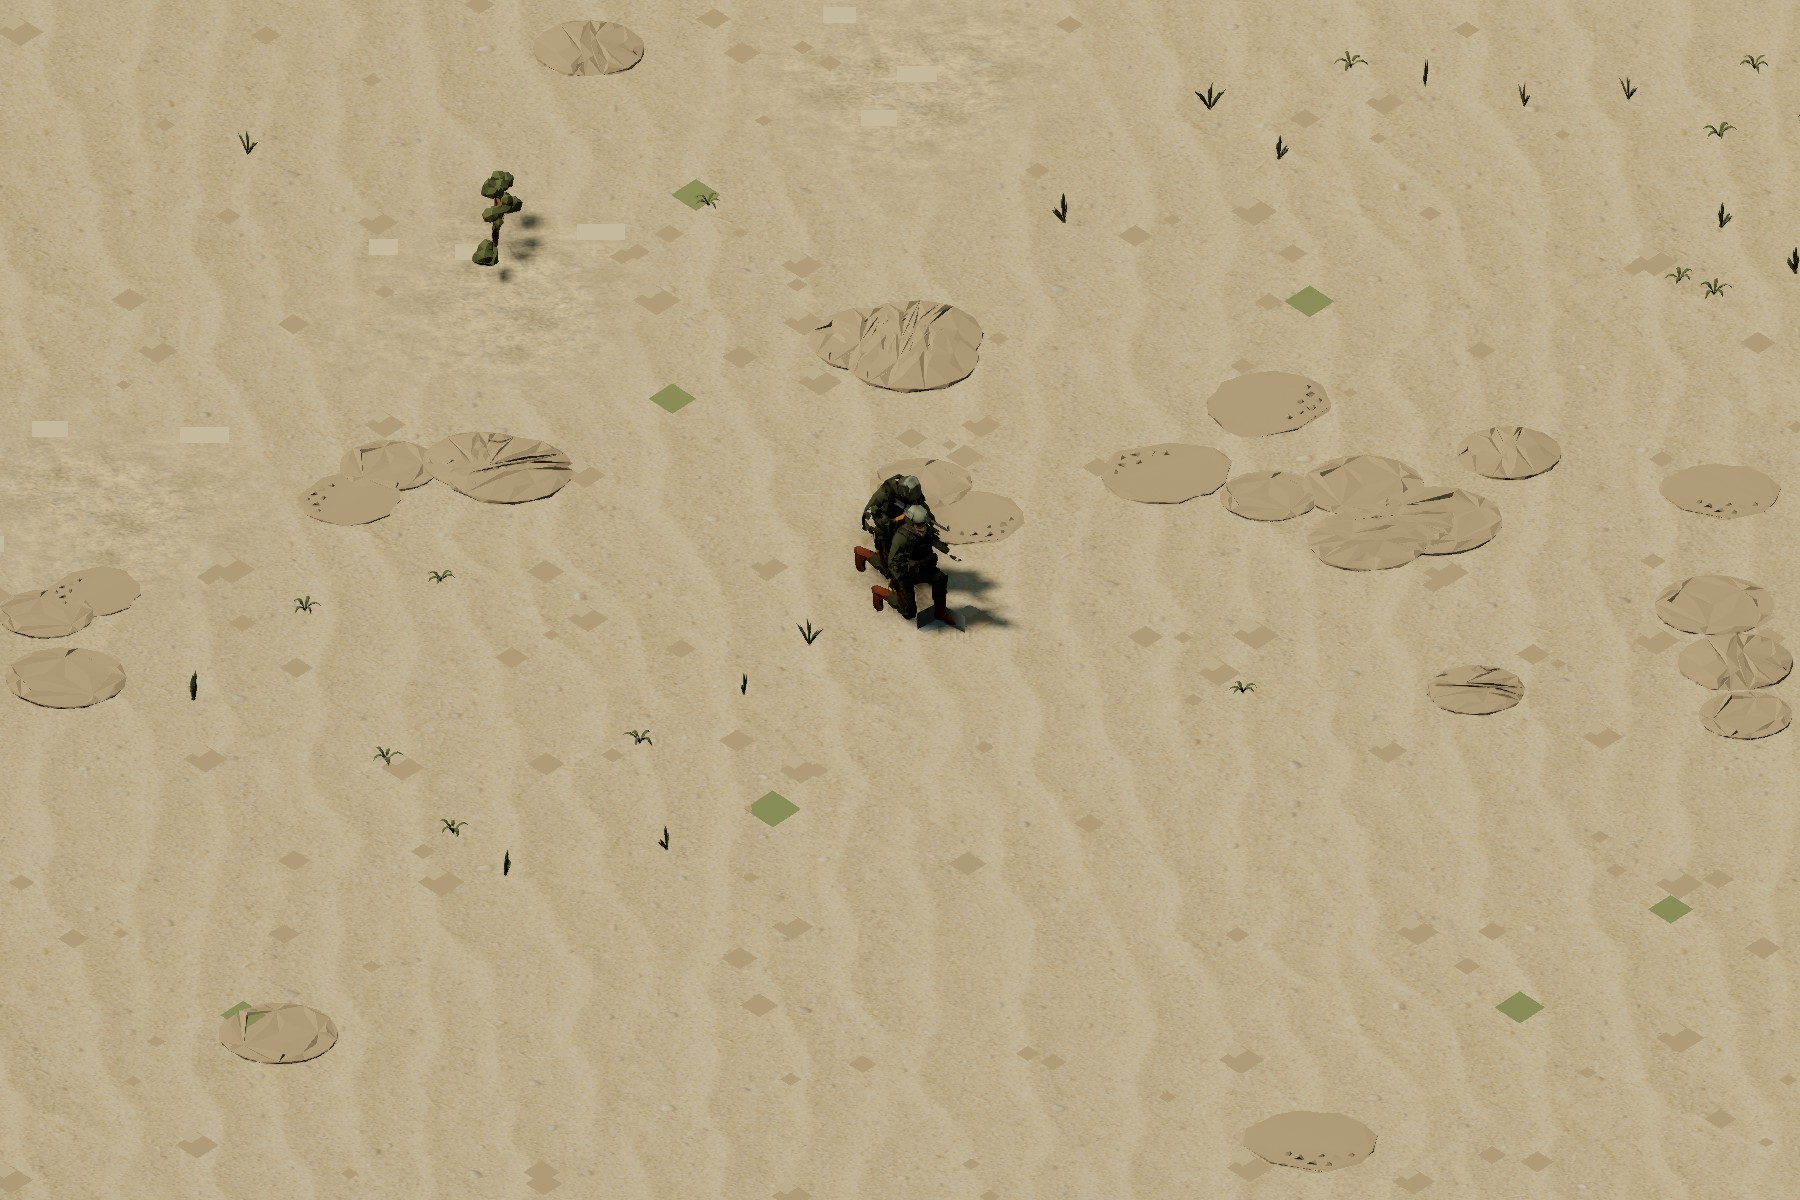
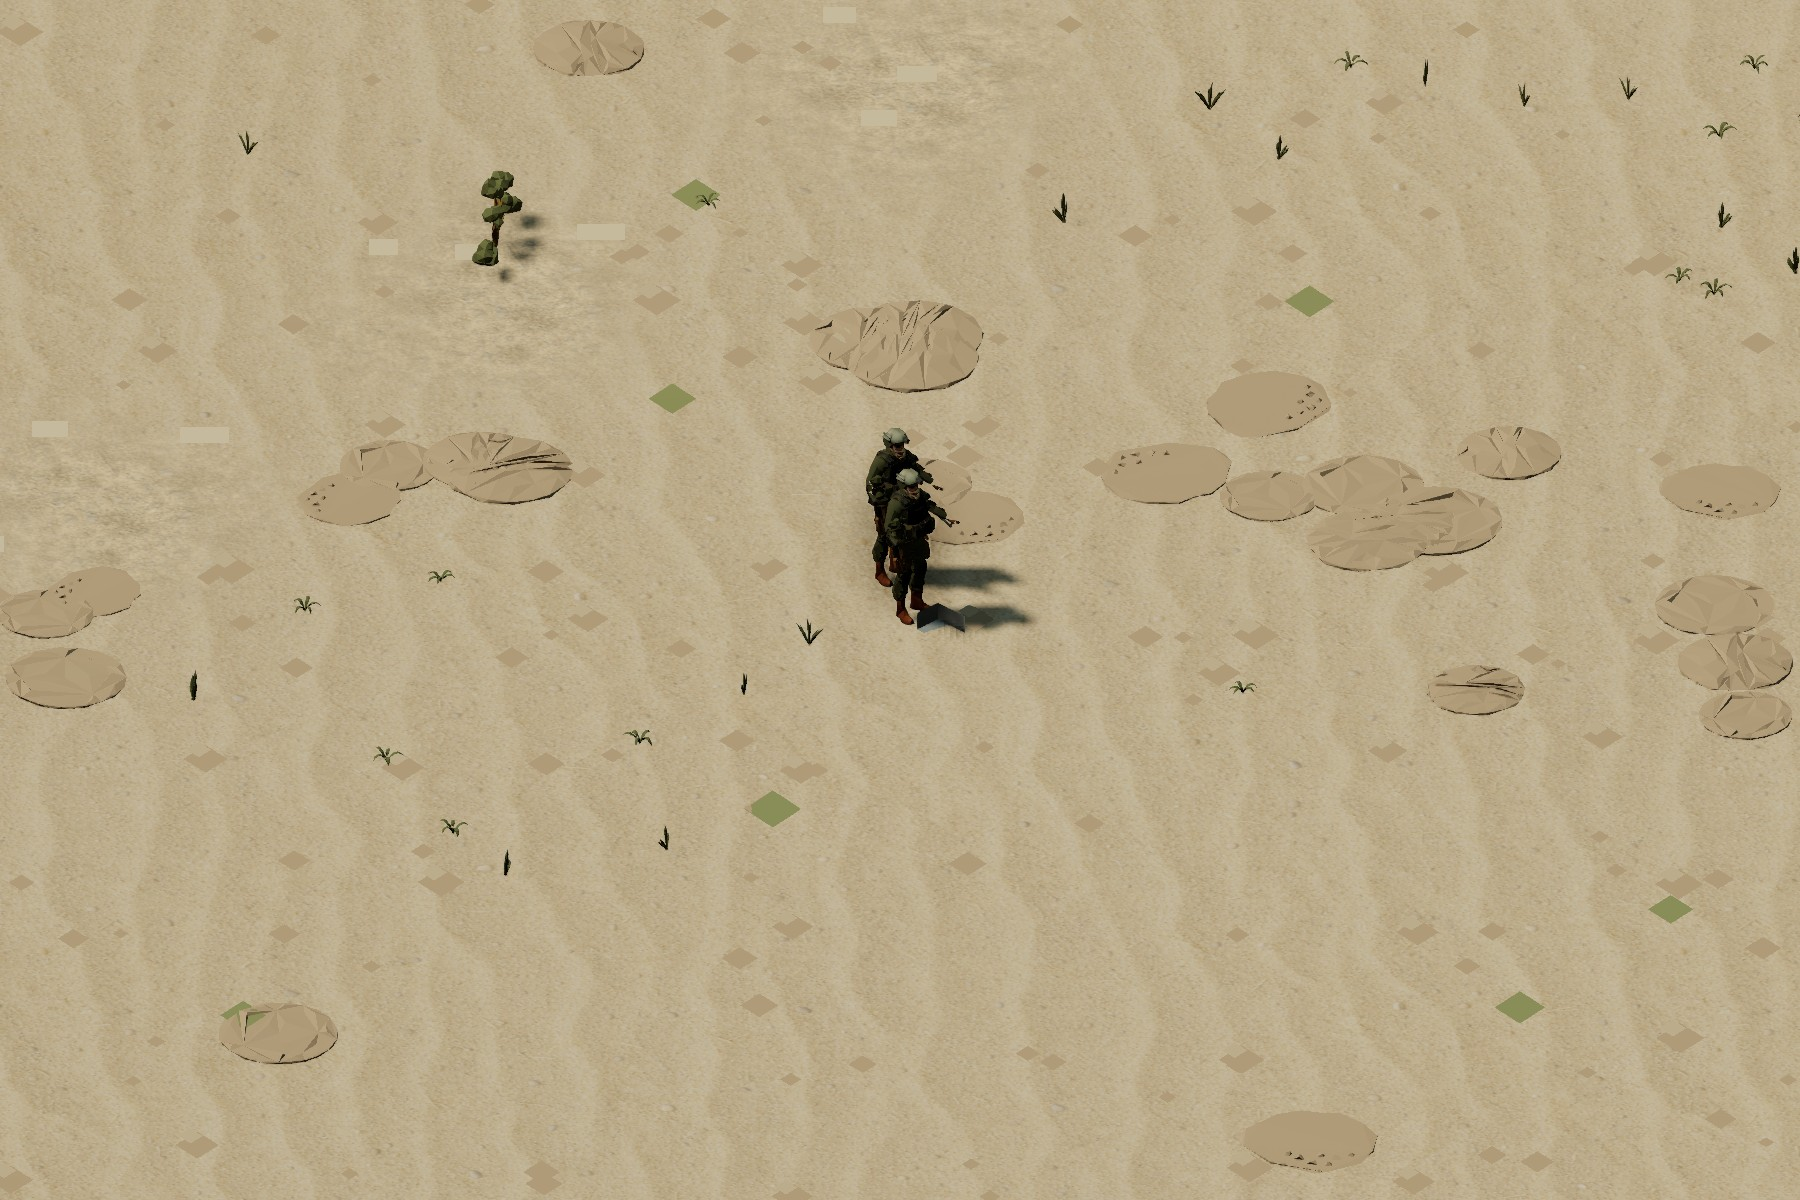
fix(art): garage plates show the infantry standing
The lead chose standing soldiers for the garage plates (6 Oct). Since #402
a stationary man takes a knee within one tick, so the plate tool cannot
catch him upright by timing alone, and a plate must never be bought with a
sim change.

- ThreeRenderer.setDebugHoldStanding(on): a capture-only, presentation-only
  override. While set, the stance machine is not asked and every unit is
  drawn standing (stance none, depth 0, so `idle`). The sim still braces;
  nothing writes sim state. Nothing but a capture tool calls it.
- unit-plates.ts sets it before the first spawn, and REFUSES to run when
  the renderer lacks it (a kneeling plate would ship looking plausible).
  The brace-settle loop from 83d49f5b is removed; every type is back on
  the tool's plain step(2) protocol.

Re-shot one process per unit (--only=<id> --port=5291, SwiftShader).
Extents: inf_squad 289x239, yahalom_squad 301x188, at_team 167x255,
demo_squad 174x208, recon_zikit 260x247 (the old figures 143-280 x
163-240). Every plate viewed: the new figures upright in idle, centred.
Falsified by the previous commit's own plates: the same capture without
the override drew all five kneeling.

typecheck, lint and the render package's tests (2618) pass.

Changed region(s): [[0.4667, 0.37, 0.5911, 0.5242]]

diff --git a/tools/src/perf/unit-plates.ts b/tools/src/perf/unit-plates.ts
@@ -229,7 +229,7 @@ interface LionsWindow {
       height: number;
       blocked: Uint8Array;
       entityCount: number;
-      state: { alive: Uint8Array; side: Uint8Array; brace?: Uint8Array };
+      state: { alive: Uint8Array; side: Uint8Array };
       unitTypes: { id: string }[];
       spawn(typeIdx: number, side: number, x: number, y: number): number;
       removeFromPlay(id: number): void;
@@ -237,6 +237,7 @@ interface LionsWindow {
     renderer: {
       camera: { x: number; y: number; zoom: number };
       setDebugLayerVisible(name: string, visible: boolean): number;
+      setDebugHoldStanding?(on: boolean): number;
       frame(alpha: number, dtMs: number): void;
       worldToScreen(wx: number, wy: number): { x: number; y: number };
     };
@@ -512,6 +513,17 @@ async function runCapture(): Promise<void> {
     // infantry plates re-shot on 6 Oct, against 143-280 x 163-240 before
     // sway shipped. Hiding `wind` drives `uSwayAmp` to 0, both frames.
     await page.evaluate(() => (window as unknown as LionsWindow).__lions.renderer.setDebugLayerVisible('wind', false));
+    // Standing, by the lead's choice (6 Oct): since #402 a stationary man
+    // takes a knee within one tick, and the plates show him upright. A
+    // renderer-side, capture-only override (`ThreeRenderer.debugHoldStanding`)
+    // -- the sim still braces; nothing here writes sim state. Refused rather
+    // than skipped when the renderer lacks it: a kneeling plate would ship
+    // looking plausible.
+    await page.evaluate(() => {
+      const r = (window as unknown as LionsWindow).__lions.renderer;
+      if (typeof r.setDebugHoldStanding !== 'function') throw new Error('renderer has no setDebugHoldStanding');
+      r.setDebugHoldStanding(true);
+    });
 
     // Strip EVERY unit `showSandbox` fields by default (`sandbox-force.ts`'s
     // `SANDBOX_KDF` and `SANDBOX_ENEMY`) before anything else runs -- both
@@ -671,22 +683,6 @@ async function runCapture(): Promise<void> {
     for (const id of wanted) {
       const entity = await spawnAt(id);
       await page.evaluate(() => (window as unknown as LionsWindow).__lions.step(2));
-      // A man who has stopped takes a knee (the sim's brace, PR #402), and
-      // two ticks catches him HALFWAY down -- the drop is KNEEL_DROP_TICKS.
-      // Step on, one tick at a time, until he is no longer dropping, so the
-      // plate shows a settled pose. A unit that does not halt to fire stays
-      // at BRACE_NONE (0) and takes no extra tick: every vehicle plate's
-      // protocol is unchanged.
-      const settleTicks = await page.evaluate((e) => {
-        const L = (window as unknown as LionsWindow).__lions;
-        let n = 0;
-        while (L.sim.state.brace?.[e] === 1 && n < 40) {
-          L.step(1);
-          n++;
-        }
-        return n;
-      }, entity);
-      if (settleTicks > 0) console.log(`[${TAG}] ${id}: ${settleTicks} more tick(s) to settle the brace`);
       await page.evaluate(() => (window as unknown as LionsWindow).__lions.renderer.frame(1, 0));
 
       // Retried, not a bare call: measured under SwiftShader with several

diff --git a/packages/render/src/three/ThreeRenderer.ts b/packages/render/src/three/ThreeRenderer.ts
@@ -1692,6 +1692,15 @@ export class ThreeRenderer implements Renderer {
    */
   private unitsDebugHidden = false;
   /**
+   * A capture-only override (the garage plates, 6 Oct): every unit is drawn
+   * STANDING, whatever the sim's brace says. Since #402 a stationary man
+   * takes a knee, so a unit spawned for a portrait drops within one tick;
+   * the lead wants the plates upright. Presentation only -- the sim still
+   * braces, the stance machine is simply not asked -- and set by nothing but
+   * `setDebugHoldStanding`, which only a capture tool calls.
+   */
+  private debugHoldStanding = false;
+  /**
    * Unit types whose GLB FAILED to load, with the URL that failed (WP-A3.3,
    * ruling 2). A type here with no template draws `proxyBoxes` instead of
    * nothing -- see `units/proxy-box.ts`. A type merely not loaded YET (a
@@ -3122,6 +3131,14 @@ export class ThreeRenderer implements Renderer {
    * the gate's case, which makes the pair differ by the layer and nothing
    * else.
    */
+  /** See `debugHoldStanding`. Returns 1 when the flag changed, 0 when it
+   *  was already there -- `setDebugLayerVisible`'s shape. */
+  setDebugHoldStanding(on: boolean): number {
+    const changed = this.debugHoldStanding === on ? 0 : 1;
+    this.debugHoldStanding = on;
+    return changed;
+  }
+
   setDebugLayerVisible(name: string, visible: boolean): number {
     if (!isDebugLayer(name)) throw new Error(unknownDebugLayerMessage(name));
     switch (name) {
@@ -6032,11 +6049,13 @@ export class ThreeRenderer implements Renderer {
       const nowS = presentationSimMs(this.sim.tickCount, alpha) / 1000;
       // The kneel (`units/stance.ts`): the sim's brace when it has one (#402),
       // otherwise "stationary and fired in the last few seconds".
-      const reading = stanceOf(this.sim, i, alpha, {
-        speed: anim.speed,
-        sinceShotS: nowS - this.lastShotSimS[i],
-        prevDepth: this.unitDepth[i],
-      });
+      const reading = this.debugHoldStanding
+        ? { stance: 'none' as const, progress: 0, fromSim: true }
+        : stanceOf(this.sim, i, alpha, {
+            speed: anim.speed,
+            sinceShotS: nowS - this.lastShotSimS[i],
+            prevDepth: this.unitDepth[i],
+          });
       const depthTarget = reading.fromSim
         ? stanceDepth(reading.stance, reading.progress)
         : reading.stance === 'dropping' || reading.stance === 'kneeling'
